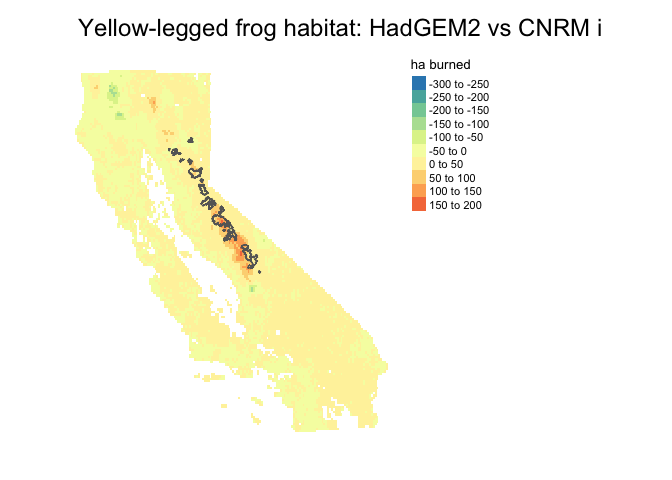
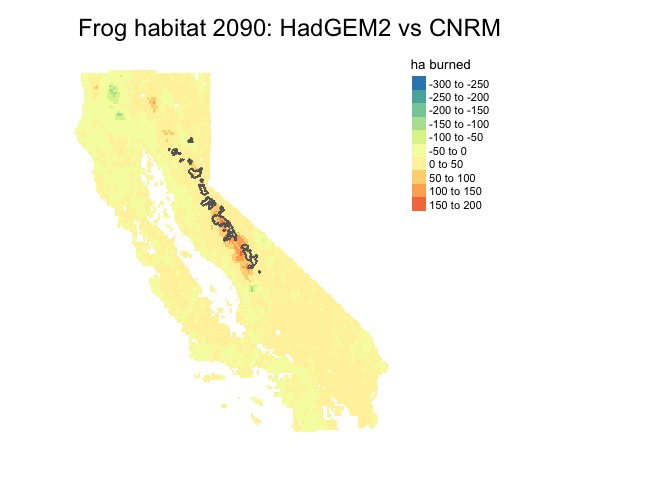
updated graph titles & formatting

Changed region(s): [[0.0938, 0.0312, 0.9062, 0.0938]]

diff --git a/docs/project.md b/docs/project.md
@@ -225,10 +225,7 @@ Therefore it is important to consider how wildfire will change in
 habitats](https://www.sciencenews.org/blog/wild-things/wildfires-are-unexpected-threat-california-condors)
 in the future.
 
-Again, I will start by plotting the critical habitat over the
-    raster.
-
-    ## Variable "layer.2" contains positive and negative values, so midpoint is set to 0. Set midpoint = NA to show the full spectrum of the color palette.
+Again, I will start by plotting the critical habitat over the raster.
 
 ![](project_files/figure-gfm/unnamed-chunk-19-1.png)<!-- -->
 
